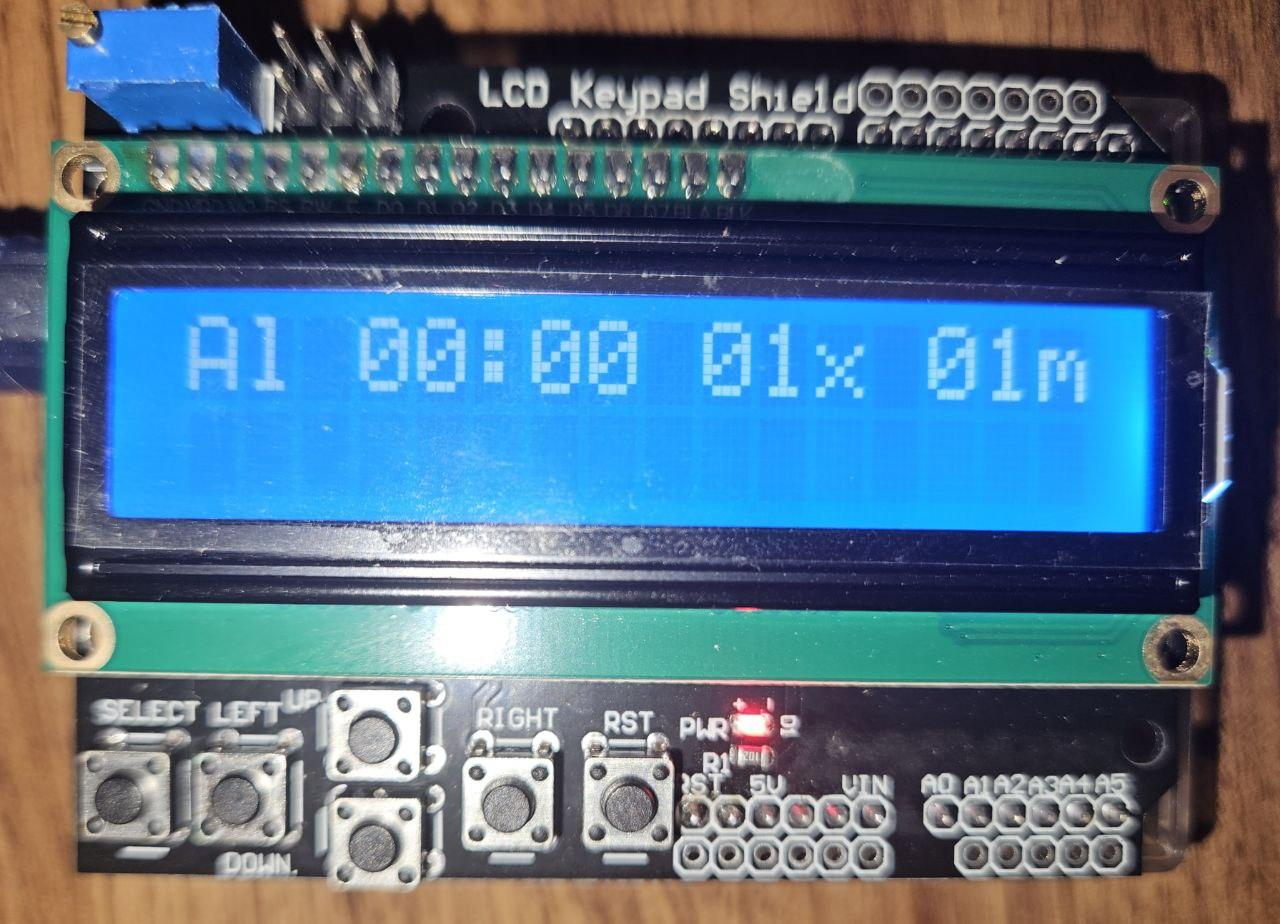
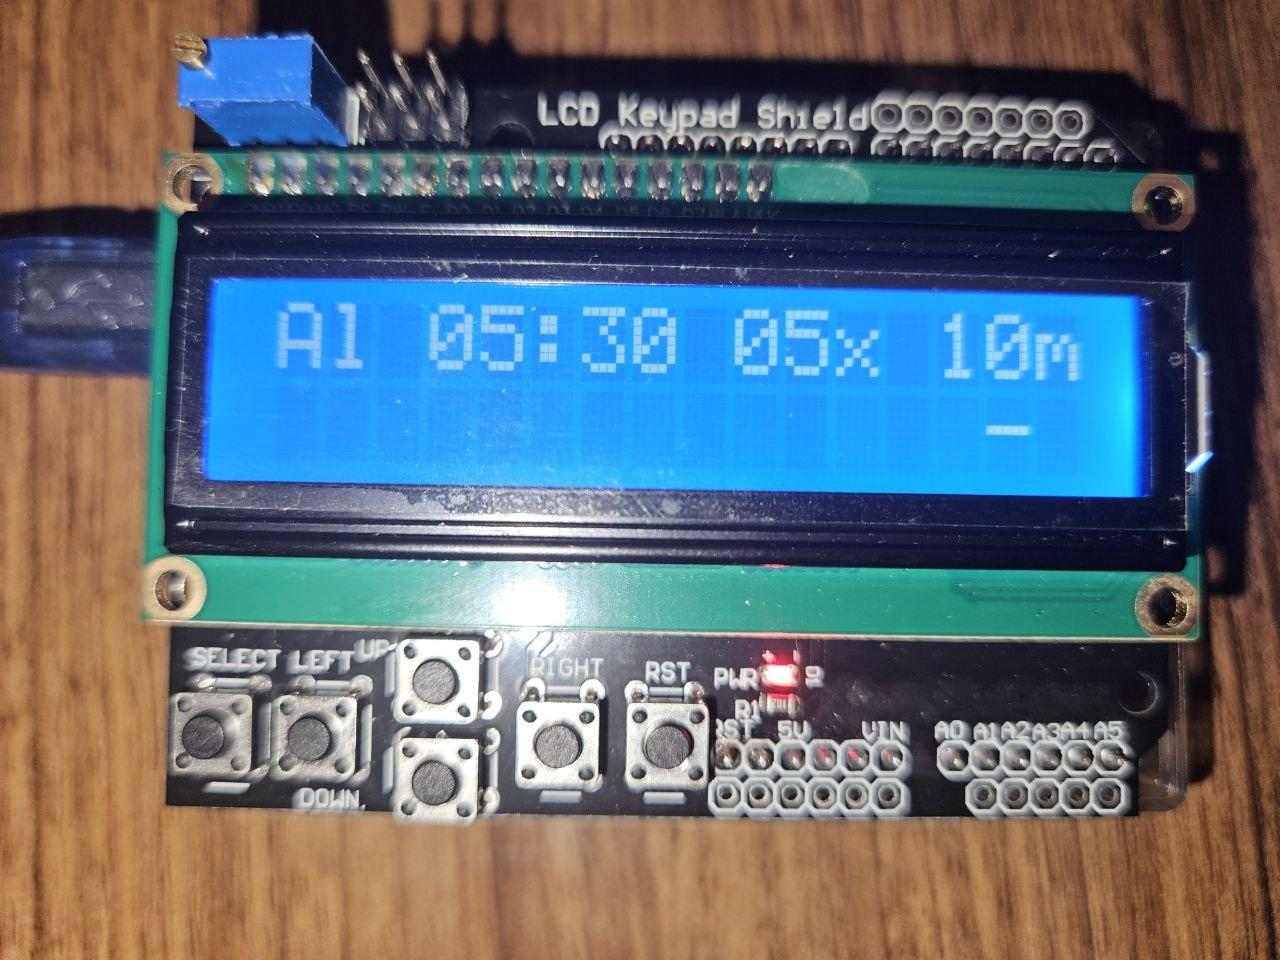
updae alarm img and serial print when alart is toggled

diff --git a/alarm.cpp b/alarm.cpp
@@ -221,7 +221,7 @@ void Alarm::execute()
         {
             if(!this->is_alarm_on)
             {
-                Serial.println(F("ON"));
+                Serial.println(F("Alarm ON"));
                 this->is_alarm_on = true;
             }
             found = 1;
@@ -231,7 +231,7 @@ void Alarm::execute()
 
     if (!found && this->is_alarm_on) 
     {
-        Serial.println(F("OFF"));
+        Serial.println(F("Alarm OFF"));
         this->is_alarm_on = false;
     }
 }
